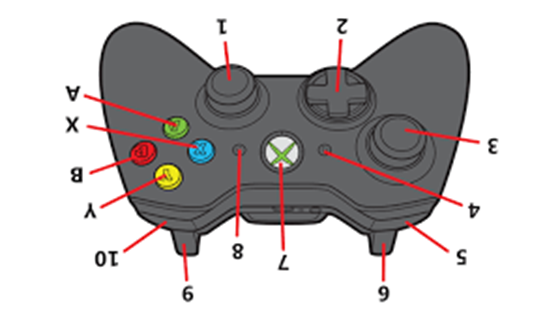
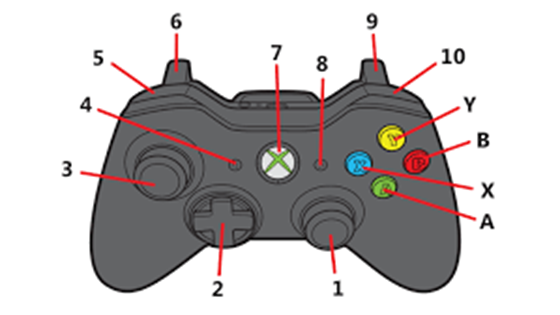
Changes
Anleitung:
-Improved visibility of text
-added images

gave the reader eye cancer but its okay

diff --git a/js/Anleitung.js b/js/Anleitung.js
@@ -3,29 +3,31 @@ function createDynamicContent() {
   const container = document.getElementById('anleitungs-container');
   container.innerHTML = `
     <div class="container5">
-      <div class="satz">Erklärung:Er ist eine Gruppe von Computern, die zusammenarbeiten.</div>
-      <div class="satz">Funktion:Er kann im Grunde vieles aber, was ihr gerade sieht, ist eine Physik Simulation.</div>
+      <div class="satz">Erklärung: Er ist eine Gruppe von Computern, die zusammenarbeiten.</div>
+      <div class="satz">Funktion: Er kann im Grunde vieles aber, was ihr gerade sieht, ist eine Physik Simulation.</div>
       <div class="bild-container">
         <div class="bild" id="bild1">
-          <div class="overlay">
+          <img src="./img/Controller.png" alt="Bild 1">
+          <div class="overlay"> 
             <span class="textOverImage">1: Ball Größer ↑, Ball Kleiner ↓
-2: ↑ und ↓ zum Auswählen und ↔ zum umstellen
-3: Bewegen
-5: Entfernt Barrieren
-6: Kugelansicht und Wasseransicht wechseln
-7: Controller an
-9: Barrieren Ansicht an und aus
-10: Fügt Barrieren hinzu
-A: Gravity 0
-B: Density 0 und Pressure 0 Elasticity 115
-Y: Density 30 Elasticity -30
-X: Standarteinstellung
-</span>
+            2: ↑ und ↓ zum Auswählen und ↔ zum umstellen
+            3: Bewegen
+            5: Entfernt Barrieren
+            6: Kugelansicht und Wasseransicht wechseln
+            7: Controller an
+            9: Barrieren Ansicht an und aus
+            10: Fügt Barrieren hinzu
+            A: Gravity 0
+            B: Density 0 und Pressure 0 Elasticity 115
+            Y: Density 30 Elasticity -30
+            X: Standarteinstellung
+            </span>
           </div>
         </div>
         <div class="bild" id="bild2">
+          <img src="./img/testimonial-bg.png" alt="Bild 2">
           <div class="overlay">
-            <span class="textOverImage">Jede Barriere (oder unterschiedliche Farbe) die hinzugefügt wurde reprä-sentiert ein weiteren PC der dazugeschalten wurde. Mehr Farben -> mehr PCs. Es wird die selbe Leistung erbracht, aber es wird auf mehrere PCs aufgeteilt. Wie Teamwork. Jeder hat eine Aufgabe und wenn man zusam-menarbeitet wird man schneller fertig.</span>
+            <span class="textOverImage">Jede Barriere (oder unterschiedliche Farbe) die hinzugefügt wurde repräsentiert ein weiteren PC der dazugeschalten wurde. Mehr Farben -> mehr PCs. Es wird die selbe Leistung erbracht, aber es wird auf mehrere PCs aufgeteilt. Wie Teamwork. Jeder hat eine Aufgabe und wenn man zusammenarbeitet wird man schneller fertig.</span>
           </div>
         </div>
       </div>
@@ -36,27 +38,38 @@ X: Standarteinstellung
   const style = document.createElement('style');
   style.textContent = `
     .container5 {
-      width: 80%;
-      margin: 20px auto;
-      border: 1px solid #000;
-      padding: 10px;
+      width: 90%;
+      max-width: 1200px;
+      margin: 40px auto;
+      border: 2px solid #000;
+      padding: 20px;
+      font-size: 18px;
     }
     .satz {
       border: 1px solid #000;
-      margin-bottom: 10px;
-      padding: 5px;
+      margin-bottom: 20px;
+      padding: 15px;
+      font-size: 24px;
     }
+
     .bild-container {
       display: flex;
       justify-content: space-between;
+      height: 400px;
     }
     .bild {
       width: 48%;
-      height: 200px;
-      border: 1px solid #000;
+      height: 100%;
+      border: 2px solid #000;
       position: relative;
       overflow: hidden;
       cursor: pointer;
+    }
+    .bild img {
+      width: 100%;
+      height: 100%;
+      object-fit: cover;
+      display: block;
     }
     .overlay {
       position: absolute;
@@ -64,17 +77,34 @@ X: Standarteinstellung
       left: 0;
       width: 100%;
       height: 100%;
-      background-color: rgba(0, 0, 0, 0.7);
+      background-color: rgba(0, 0, 0, 0.5);
       display: flex;
       justify-content: center;
       align-items: center;
-      opacity: 0;
+      opacity: 1;
       transition: opacity 0.3s ease;
     }
     .textOverImage {
       color: white;
-      font-size: 24px;
+      font-size: 36px;
+      font-weight: bold;
+      color: #ffffff;
+      text-shadow: 2px 2px 4px rgba(0,0,0,0.8);
+      background-color: rgba(0, 0, 0, 0.5);
+      padding: 10px 20px;
+      border-radius: 5px;
+      color: #f5f5f5; /* Light gray */
+      font-size: 24px; /* Increased font size */
+      font-weight: bold;
+      text-shadow: 1px 1px 2px rgba(255,255,255,0.5); /* Light gray shadow */
+      background-color: rgba(255,255,255,0.2); /* White with 20% opacity */
+      padding: 10px 20px;
+      border-radius: 5px;
     }
+
+    .bild:hover .overlay {
+    background-color: rgba(0, 0, 0, 0.6);
+}  
   `;
   document.head.appendChild(style);
 
